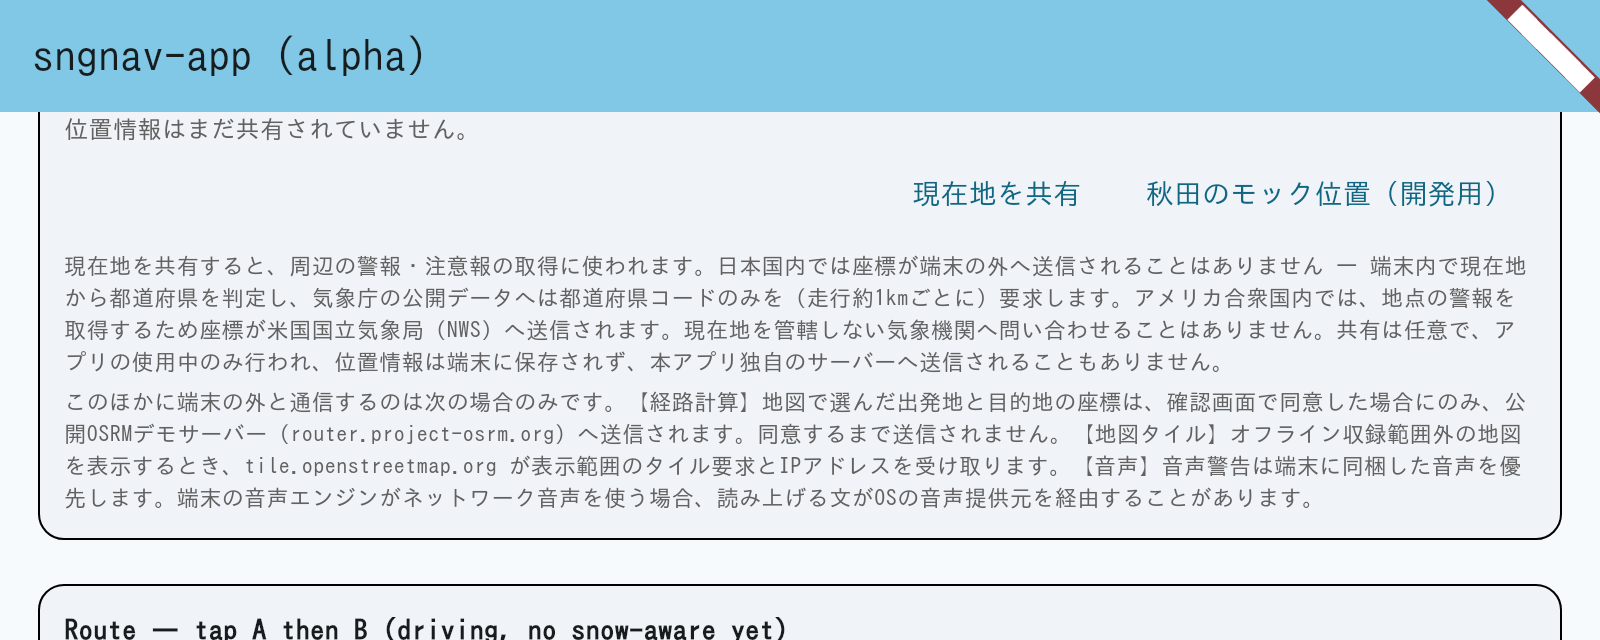
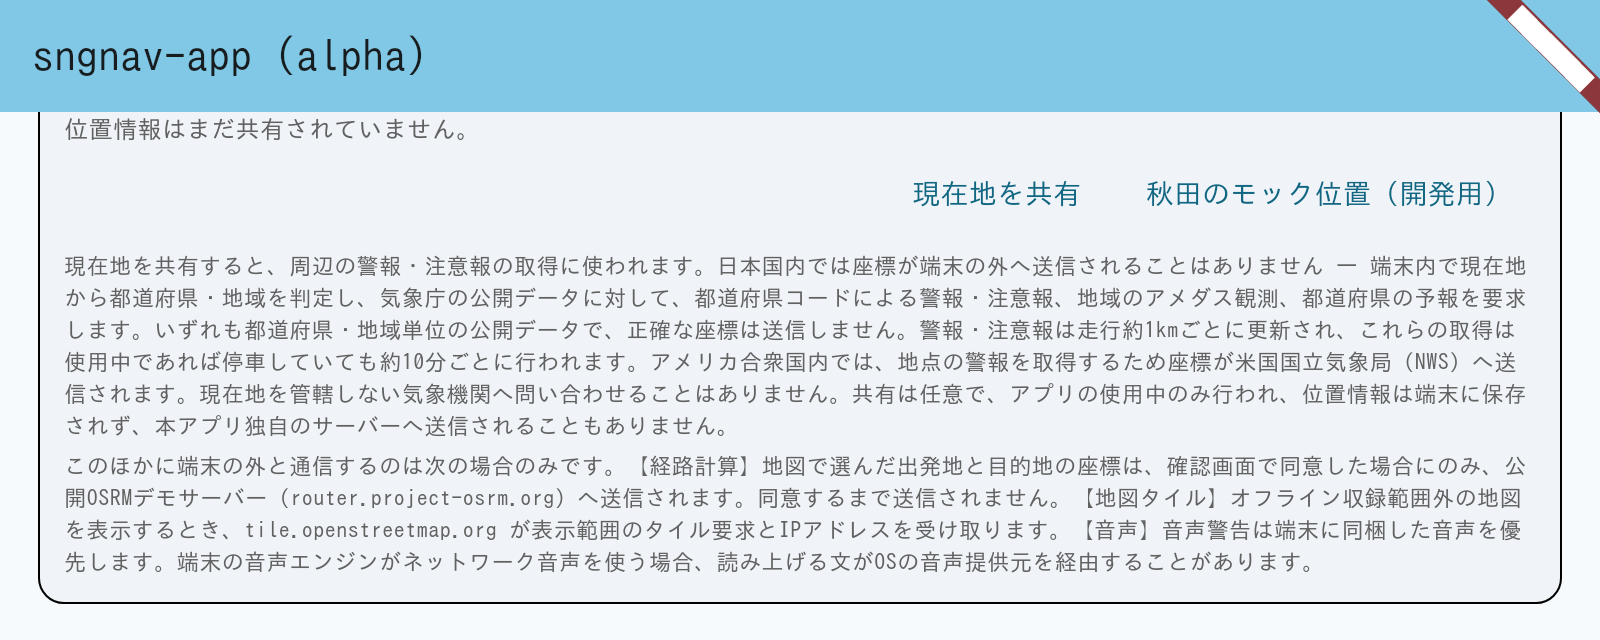
fix(disclosure): HER location disclosure now matches the measured wire — JMA is three endpoints, not "only the prefecture code"
BOD 2026-07-19 ratified P2 (live D4 defect; the wheel-anchor's "no
misrepresentation" floor; OPS-069(B) "disclosures match the measured wire in
every locale"). The consent card told HER the app requests
「都道府県コードのみを（走行約1kmごとに）」— only the prefecture code, about once per
km. The real JMA egress is THREE region/prefecture-keyed public endpoints:
- the prefecture WARNING file (warning/{prefectureCode}.json),
- the regional AMeDAS observations (amedas/data/…, Akita station 32402),
- the prefecture FORECAST (forecast/050000.json).
The "のみ / only" was a false-exhaustive; AMeDAS + forecast were undisclosed,
and the ~10-min stationary re-query (fires even while parked) was omitted.

Corrected both locales' locationDisclosure to name all three, keep the
privacy-positive truth (device localizes to prefecture/region on-device; exact
coordinates are NOT sent to JMA — the US/NWS point path IS coordinates, stated
honestly), and disclose the real cadence: the warning refreshes ~once per km,
all three re-request ~every 10 min while open, even when stopped (verified in
code: Timer.periodic(minutes:10) at main.dart:1070; ~1km = the 0.01° gate at
main.dart:1631). The per-km/10-min scoping was tightened after DIA's downgrade
finding (per-km applies to the warning only) so the copy is wire-exact, not
over-generalized. egress card (tiles/OSRM/voice) untouched.

Implemented by VDE; WDA cleared the D4 gate (honest + dignified, over-states
[…]

Changed region(s): [[0.0312, 0.4375, 0.9688, 1.0], [0.9375, 0.9062, 0.9688, 0.9688]]

diff --git a/lib/l10n/app_localizations.dart b/lib/l10n/app_localizations.dart
@@ -144,10 +144,19 @@ class AppL10n {
   //   (noaa_nws_client.dart:307) — and short-circuits out-of-coverage points
   //   BEFORE any URI is constructed (:305), so a non-US coordinate never
   //   reaches the NWS either.
-  // - Cadence: a refresh fires about once per ~1 km of travel
-  //   (_maybeRefreshAdvisoriesForFix in main.dart). Coordinates are held only
-  //   in memory, never persisted, never sent to any server this app runs
-  //   (there is none). Foreground-only per AndroidManifest.xml.
+  // - JMA wire (Japan), all region/prefecture-keyed public data — precise
+  //   coordinates are NOT sent: (1) the prefecture warning file
+  //   warning/{prefectureCode}.json (condition_aggregator_jma provider,
+  //   prefectureCodesForPoint on-device); (2) the regional AMeDAS observation
+  //   (jma_fetch.dart, Akita station 32402); (3) the prefecture forecast
+  //   forecast/{areaCode}.json (jma_forecast_fetch.dart, Akita 050000).
+  // - Cadence: the warning refresh fires about once per ~1 km of travel
+  //   (_maybeRefreshAdvisoriesForFix in main.dart, 0.01° gate); the whole JMA
+  //   set (AMeDAS + forecast via _refreshJma, warning via the advisory refresh)
+  //   also fires on a 10-minute foreground ticker (_jmaTicker, main.dart) even
+  //   while stopped. Coordinates are held only in memory, never persisted,
+  //   never sent to any server this app runs (there is none). Foreground-only
+  //   per AndroidManifest.xml.
   //
   // BOTH locales state both regional facts: locale is NOT location — a
   // Japanese-reading driver in the US would hit the NWS point path, so the ja
@@ -157,8 +166,11 @@ class AppL10n {
   String get locationDisclosure => _ja
       ? '現在地を共有すると、周辺の警報・注意報の取得に使われます。'
           '日本国内では座標が端末の外へ送信されることはありません — '
-          '端末内で現在地から都道府県を判定し、気象庁の公開データへは'
-          '都道府県コードのみを（走行約1kmごとに）要求します。'
+          '端末内で現在地から都道府県・地域を判定し、気象庁の公開データに対して、'
+          '都道府県コードによる警報・注意報、地域のアメダス観測、'
+          '都道府県の予報を要求します。いずれも都道府県・地域単位の公開データで、'
+          '正確な座標は送信しません。警報・注意報は走行約1kmごとに更新され、'
+          'これらの取得は使用中であれば停車していても約10分ごとに行われます。'
           'アメリカ合衆国内では、地点の警報を取得するため座標が'
           '米国国立気象局（NWS）へ送信されます。'
           '現在地を管轄しない気象機関へ問い合わせることはありません。'
@@ -166,13 +178,19 @@ class AppL10n {
           '本アプリ独自のサーバーへ送信されることもありません。'
       : 'When you share your location, it is used to fetch nearby weather '
           'advisories. In Japan your coordinates never leave the device: the '
-          'app determines your prefecture on the device and requests only '
-          'that prefecture code from the JMA public data (about once per '
-          'kilometre of travel). In the United States your coordinates are '
-          'sent to the NWS to fetch alerts for your exact point. A service '
-          'that does not cover your location is never contacted. Sharing is '
-          'opt-in, happens only while the app is open, and your location is '
-          "never stored on the device or sent to this app's own servers.";
+          'app determines your prefecture and region on the device and '
+          'requests, from the JMA public data, the warning file for your '
+          'prefecture code, the regional AMeDAS observations, and the '
+          'forecast for your prefecture — all prefecture- or region-keyed '
+          'public data, so your exact coordinates are not sent. The warning '
+          'file is refreshed about once per kilometre of travel; all three '
+          'are re-requested about every 10 minutes while the app is open, '
+          'even when stopped. In the United States your coordinates '
+          'are sent to the NWS to fetch alerts for your exact point. A '
+          'service that does not cover your location is never contacted. '
+          'Sharing is opt-in, happens only while the app is open, and your '
+          "location is never stored on the device or sent to this app's own "
+          'servers.';
 
   // ===== Other-egress disclosure (B27 + B30) — the rest of the wire =====
   //

diff --git a/test/l10n/consent_localization_test.dart b/test/l10n/consent_localization_test.dart
@@ -202,6 +202,42 @@ void main() {
       expect(d.toLowerCase(), contains('opt-in'));
     });
 
+    test('locationDisclosure names the FULL JMA egress + stationary cadence '
+        '(BOD P2 D4 fix — no false "only prefecture code"/"のみ")', () {
+      // The measured JMA wire on HER Akita path is THREE region/prefecture-
+      // keyed endpoints, not one: warning/{prefectureCode}.json +
+      // AMeDAS observation (station 32402) + forecast/050000.json. And the
+      // cadence is per-~1km-travel AND a ~10-minute stationary ticker
+      // (_jmaTicker, main.dart) — the app re-queries even while parked.
+      // The old copy said "都道府県コードのみを（走行約1kmごとに）" which was
+      // BOTH false-exhaustive (omits AMeDAS + forecast) and cadence-incomplete
+      // (omits the stationary refresh). These assertions fail on the old text.
+
+      // JA: names AMeDAS + forecast, and the stationary 10-minute cadence.
+      expect(ja.locationDisclosure, contains('アメダス'));
+      expect(ja.locationDisclosure, contains('予報'));
+      expect(ja.locationDisclosure, contains('10分'));
+      expect(ja.locationDisclosure, contains('停車'));
+      // The false-exhaustive "only prefecture code" phrasing is GONE.
+      expect(ja.locationDisclosure, isNot(contains('都道府県コードのみ')));
+
+      // EN: names AMeDAS + forecast, and the stationary 10-minute cadence.
+      expect(en.locationDisclosure.toLowerCase(), contains('amedas'));
+      expect(en.locationDisclosure.toLowerCase(), contains('forecast'));
+      expect(en.locationDisclosure, contains('10 '));
+      expect(en.locationDisclosure.toLowerCase(), contains('stopped'));
+      // No "requests only that prefecture code" false-exhaustive.
+      expect(en.locationDisclosure.toLowerCase(),
+          isNot(contains('requests only')));
+
+      // The privacy-positive truth is KEPT (not over-stated): still says the
+      // coordinates never leave the device / exact coordinates are not sent.
+      expect(ja.locationDisclosure,
+          contains('座標が端末の外へ送信されることはありません'));
+      expect(en.locationDisclosure.toLowerCase(),
+          contains('exact coordinates are not sent'));
+    });
+
     test('egress disclosure names all three non-advisory egresses, both '
         'locales', () {
       for (final l in const [AppL10n(Locale('ja')), AppL10n(Locale('en'))]) {

diff --git a/test/render_see/capture_test.dart b/test/render_see/capture_test.dart
@@ -372,4 +372,32 @@ void main() {
     // Prove the default is the honest unknown, not the old fabricated ice.
     expect(find.text('路面状況不明'), findsWidgets);
   });
+
+  testWidgets(
+      '17 — JA consent disclosure names the FULL JMA egress + stationary '
+      'cadence (BOD P2 D4 fix)', (tester) async {
+    // The card HER reads BEFORE sharing her location must match the measured
+    // wire: three region/prefecture-keyed JMA endpoints (prefecture warning +
+    // regional AMeDAS + prefecture forecast — precise coords NOT sent),
+    // fetched about once per ~1 km AND about every 10 minutes while open,
+    // including stopped. The old copy said "都道府県コードのみを（走行約1kmごとに）"
+    // — false-exhaustive + cadence-incomplete. Capture the disclosure so a
+    // human can SEE the corrected honest text (OPS-066).
+    await tester.pumpWidget(const SngnavApp(locale: Locale('ja')));
+    await tester.pump();
+    final disclosure = find.byKey(const Key('location-disclosure'));
+    // Render guard: the corrected terms are actually on the surface HER reads.
+    final rendered = tester.widget<Text>(disclosure).data ?? '';
+    expect(rendered, contains('アメダス'));
+    expect(rendered, contains('予報'));
+    expect(rendered, contains('10分'));
+    expect(rendered, contains('停車'));
+    expect(rendered, isNot(contains('都道府県コードのみ')));
+    await captureApp(
+      tester,
+      target: disclosure,
+      logical: const Size(800, 460),
+      out: '../../render_out/17_ja_consent_disclosure_full_jma_egress.png',
+    );
+  });
 }